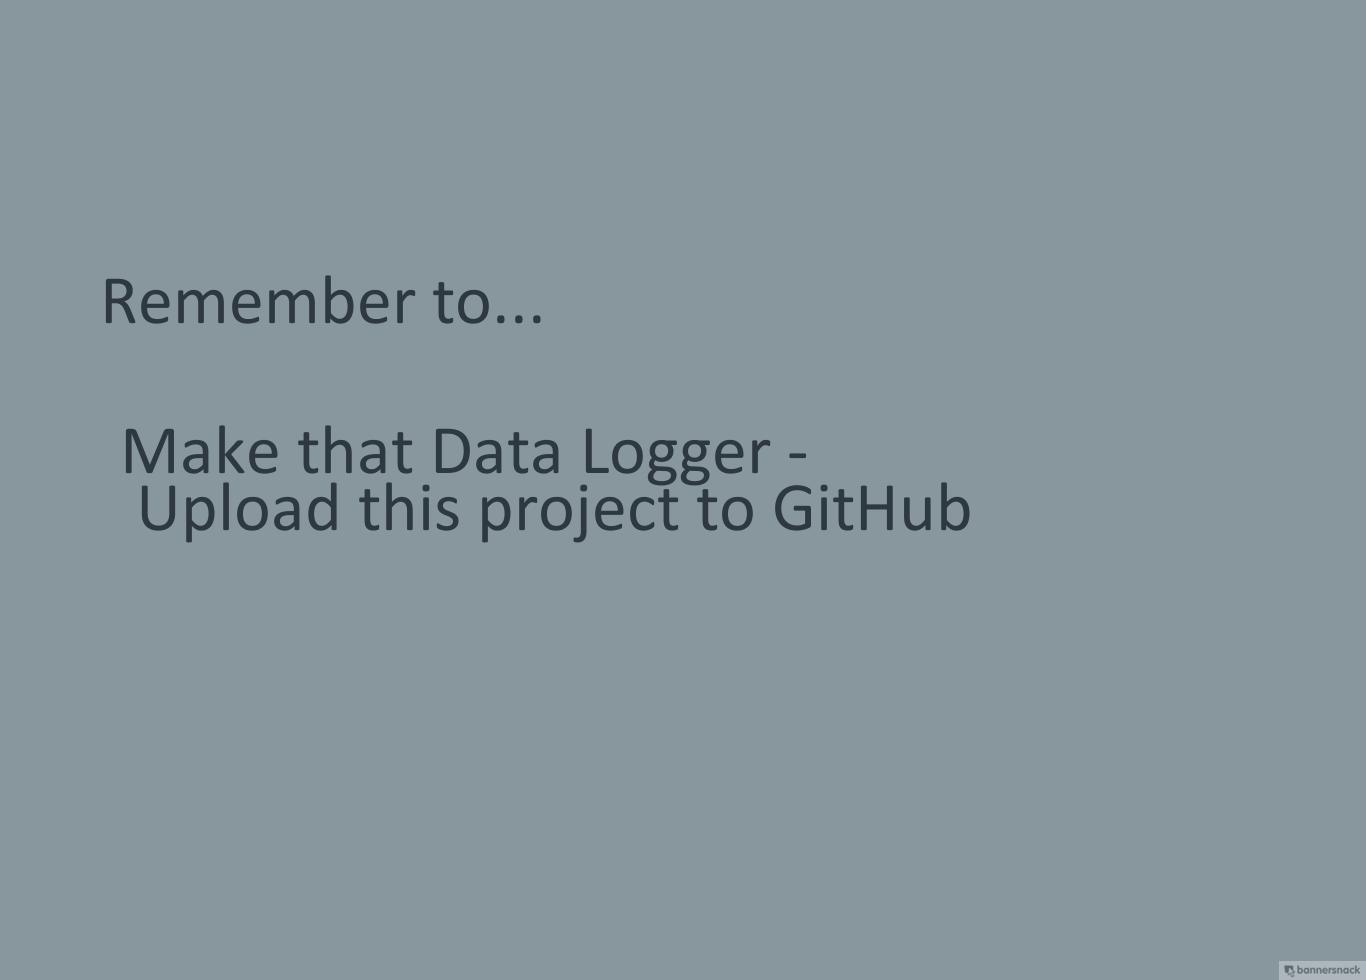
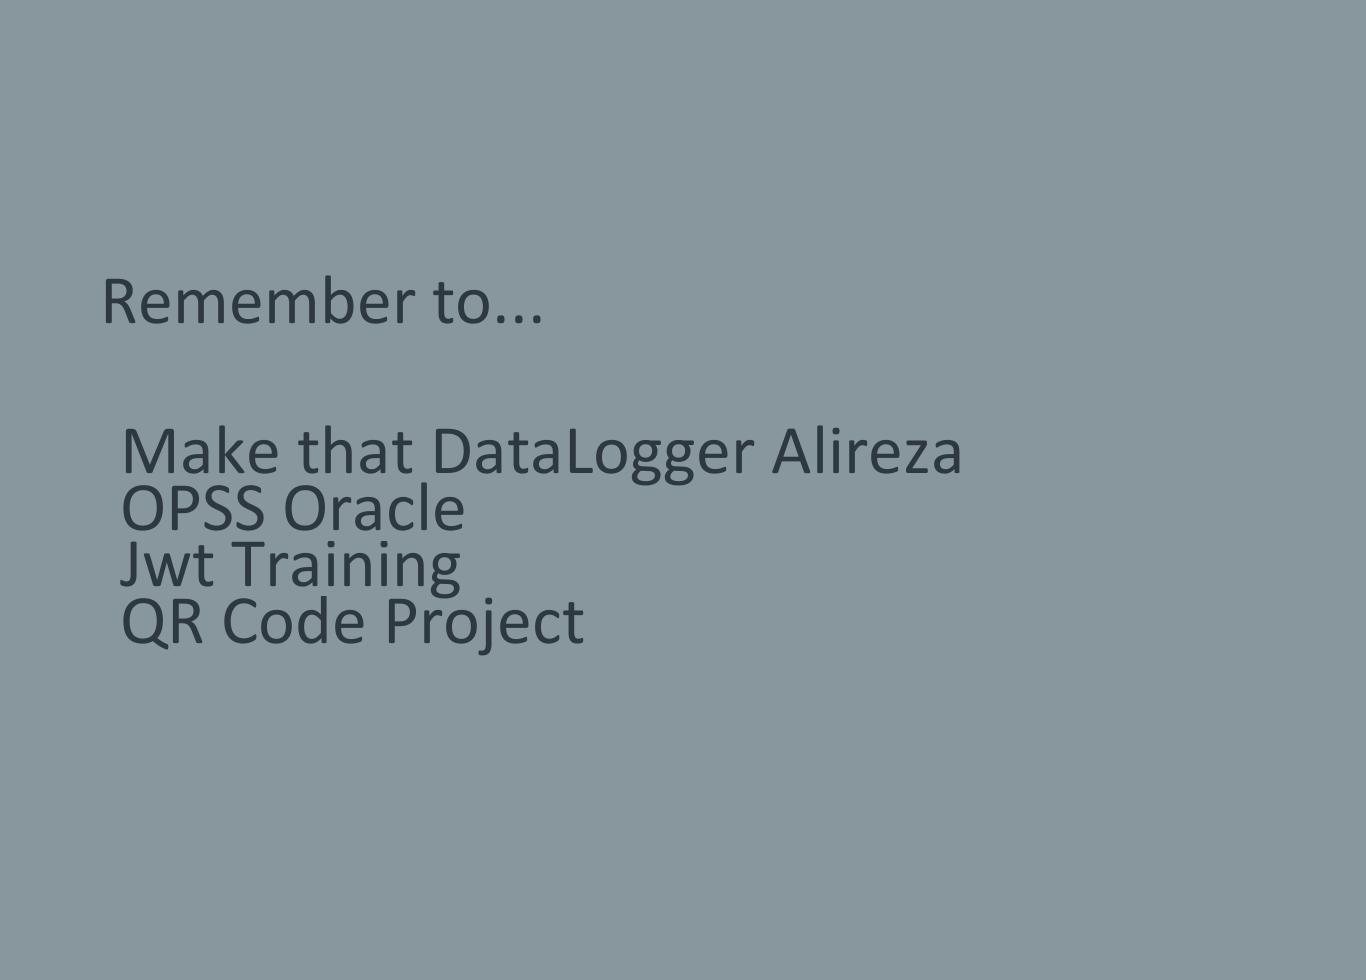
Changed the sentence processing

Changed region(s): [[0.0922, 0.4286, 0.7072, 0.6735], [0.9224, 0.9796, 1.0, 1.0]]

diff --git a/desktop-reminder.py b/desktop-reminder.py
@@ -14,25 +14,16 @@ print("\033[1;37mRemember to... ?\033[0;36m\nText To Remember:\033[34m ", end=""
 text = input()
 print("\033[00m", end="")
 
-words = list(text.split("-"))
+count = text.count("-")
+text = text.replace("-", "\n")
 
-print(DEBUG + "Sentence: " + str(len(words)))
-
-# If sentence was so big go to the next line
-if( len(words) > 4 ):
+if ( count > 1 ):
     positionR = (100, 270) # Set position upper
     position = (120, 420)  # <-)
-    print(DEBUG + "Index of 4:  " + words[4])
-    arr = list(words)
-    arr.insert(5,"\n")
-    if ( len(words) > 10 ): # second line
-        print(DEBUG + "Index of 10:  " + words[10])
-        arr.insert(11,"\n")
-    text = ' '.join(arr)
-else:
+else:   
     positionR = (150, 370) # Set position middle of photo
     position = (170, 500)  # <-)
-    text = text
+
 
 path = os.popen('pwd').read() # Path to image folder
 path = list(path.split("\n"))
